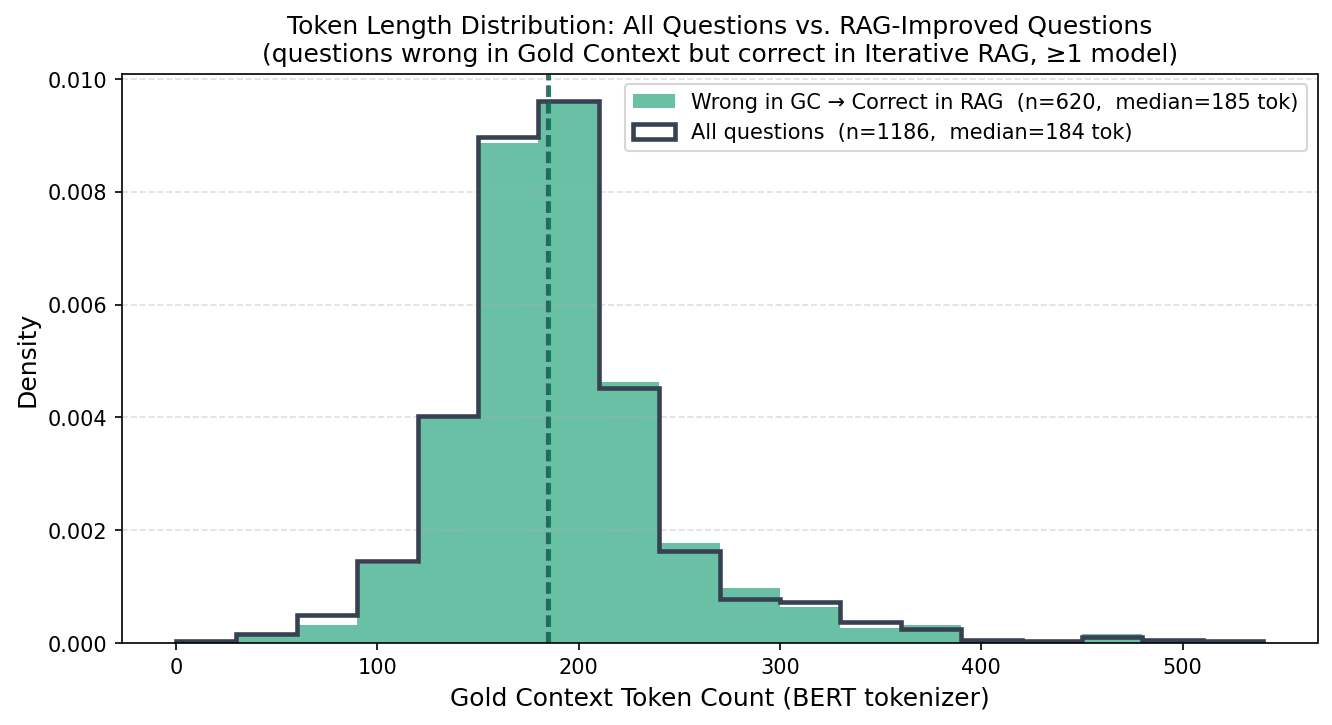
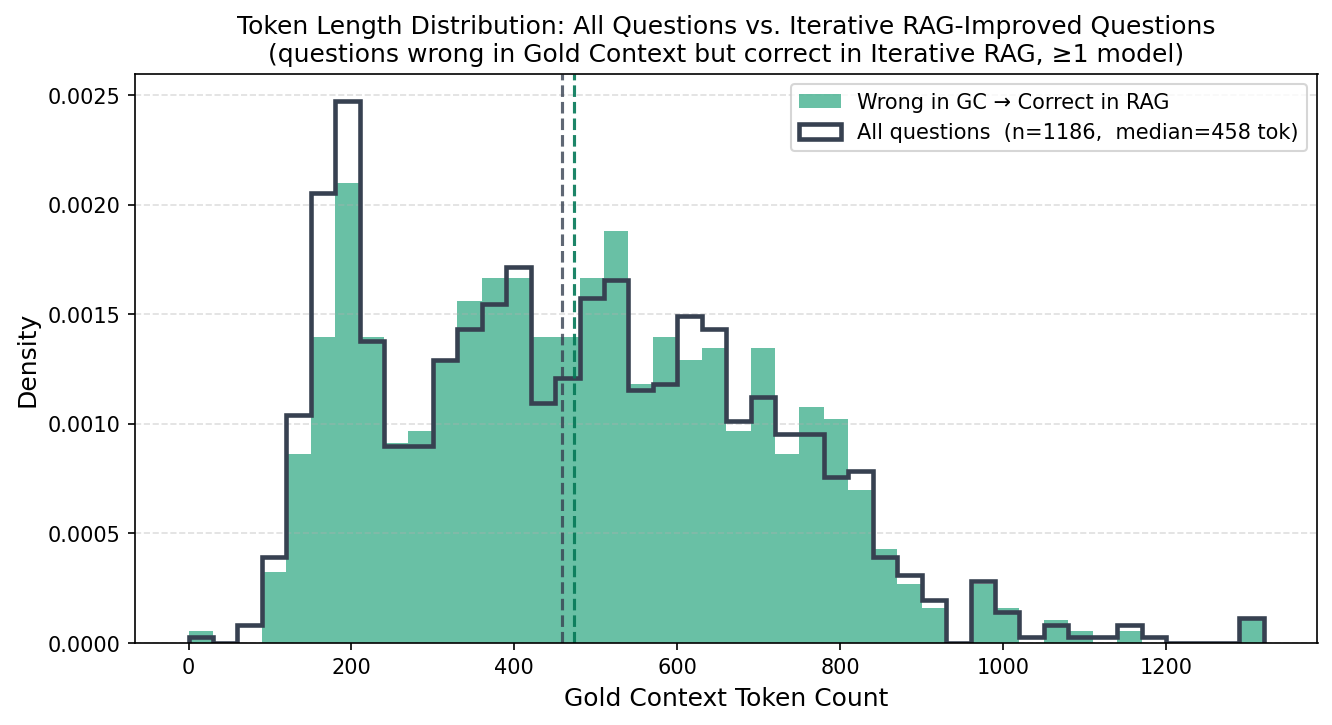
Plots updated

diff --git a/src/gold_context_analysis/plot2_improved_token_distribution.py b/src/gold_context_analysis/plot2_improved_token_distribution.py
@@ -33,7 +33,7 @@ def load_gold_contexts(qa_path: Path) -> dict[str, str]:
     with open(qa_path) as f:
         data = json.load(f)
     return {
-        item["q"].strip(): item["path"][0]["text"]
+        item["q"].strip(): "\n".join(p.get("text", "") for p in item["path"])
         for item in data
         if item.get("q") and item.get("path")
     }
@@ -113,7 +113,6 @@ def main() -> None:
         alpha=0.60, color="#059669",
         label=(
             f"Wrong in GC → Correct in RAG  "
-            f"(n={len(improved_tokens)},  median={int(np.median(improved_tokens))} tok)"
         ),
     )
     ax.hist(
@@ -131,10 +130,10 @@ def main() -> None:
     ax.axvline(np.median(improved_tokens), color="#047857", linestyle="--",
                linewidth=1.5, alpha=0.9)
 
-    ax.set_xlabel("Gold Context Token Count (BERT tokenizer)", fontsize=12)
+    ax.set_xlabel("Gold Context Token Count", fontsize=12)
     ax.set_ylabel("Density", fontsize=12)
     ax.set_title(
-        "Token Length Distribution: All Questions vs. RAG-Improved Questions\n"
+        "Token Length Distribution: All Questions vs. Iterative RAG-Improved Questions\n"
         "(questions wrong in Gold Context but correct in Iterative RAG, ≥1 model)",
         fontsize=12,
     )

diff --git a/src/gold_context_analysis/plot1_gc_accuracy_by_token_bin.py b/src/gold_context_analysis/plot1_gc_accuracy_by_token_bin.py
@@ -27,15 +27,17 @@ PLOT_DIR     = Path(__file__).parent / "plots"
 TOKENIZER_NAME = "bert-base-uncased"
 
 # Bin edges (token counts). Adjust to taste.
-BIN_EDGES = [0, 75, 150, 225, 300, 375, 600]
+# Wide range to cover multi-hop questions (up to 4 passages concatenated).
+BIN_EDGES = [0, 150, 300, 450, 600, 900, 1200, 2000]
 
 
 # ── Helpers ───────────────────────────────────────────────────────────────────
 def load_gold_contexts(qa_path: Path) -> dict[str, str]:
+    """Concatenate ALL passage texts in 'path' (multi-hop gold context)."""
     with open(qa_path) as f:
         data = json.load(f)
     return {
-        item["q"].strip(): item["path"][0]["text"]
+        item["q"].strip(): " ".join(p["text"] for p in item["path"] if p.get("text"))
         for item in data
         if item.get("q") and item.get("path")
     }

diff --git a/src/gold_context_analysis/token_vs_accuracy_scatter.py b/src/gold_context_analysis/token_vs_accuracy_scatter.py
@@ -39,8 +39,8 @@ def load_gold_contexts(qa_path: Path) -> dict[str, str]:
         question = item.get("q", "").strip()
         paths    = item.get("path", [])
         if paths and question:
-            # Take the first path entry's text as the gold context
-            text = paths[0].get("text", "")
+            # Concatenate text from ALL path entries (multi-hop = multiple passages)
+            text = "\n".join(p.get("text", "") for p in paths)
             mapping[question] = text
     return mapping
 

diff --git a/src/gold_context_analysis/plot3_token_count_by_group.py b/src/gold_context_analysis/plot3_token_count_by_group.py
@@ -51,7 +51,7 @@ def load_gold_contexts(qa_path: Path) -> dict[str, str]:
     with open(qa_path) as f:
         data = json.load(f)
     return {
-        item["q"].strip(): item["path"][0]["text"]
+        item["q"].strip(): "\n".join(p.get("text", "") for p in item["path"])
         for item in data
         if item.get("q") and item.get("path")
     }

diff --git a/src/gold_context_analysis/plot4_gc_correct_vs_incorrect_tokens.py b/src/gold_context_analysis/plot4_gc_correct_vs_incorrect_tokens.py
@@ -49,7 +49,7 @@ def load_gold_contexts(qa_path: Path) -> dict[str, str]:
     with open(qa_path) as f:
         data = json.load(f)
     return {
-        item["q"].strip(): item["path"][0]["text"]
+        item["q"].strip(): "\n".join(p.get("text", "") for p in item["path"])
         for item in data
         if item.get("q") and item.get("path")
     }

diff --git a/src/gold_context_analysis/token_vs_accuracy_improved_subset.py b/src/gold_context_analysis/token_vs_accuracy_improved_subset.py
@@ -42,7 +42,7 @@ def load_gold_contexts(qa_path: Path) -> dict[str, str]:
         q    = item.get("q", "").strip()
         path = item.get("path", [])
         if q and path:
-            mapping[q] = path[0].get("text", "")
+            mapping[q] = "\n".join(p.get("text", "") for p in path)
     return mapping
 
 
